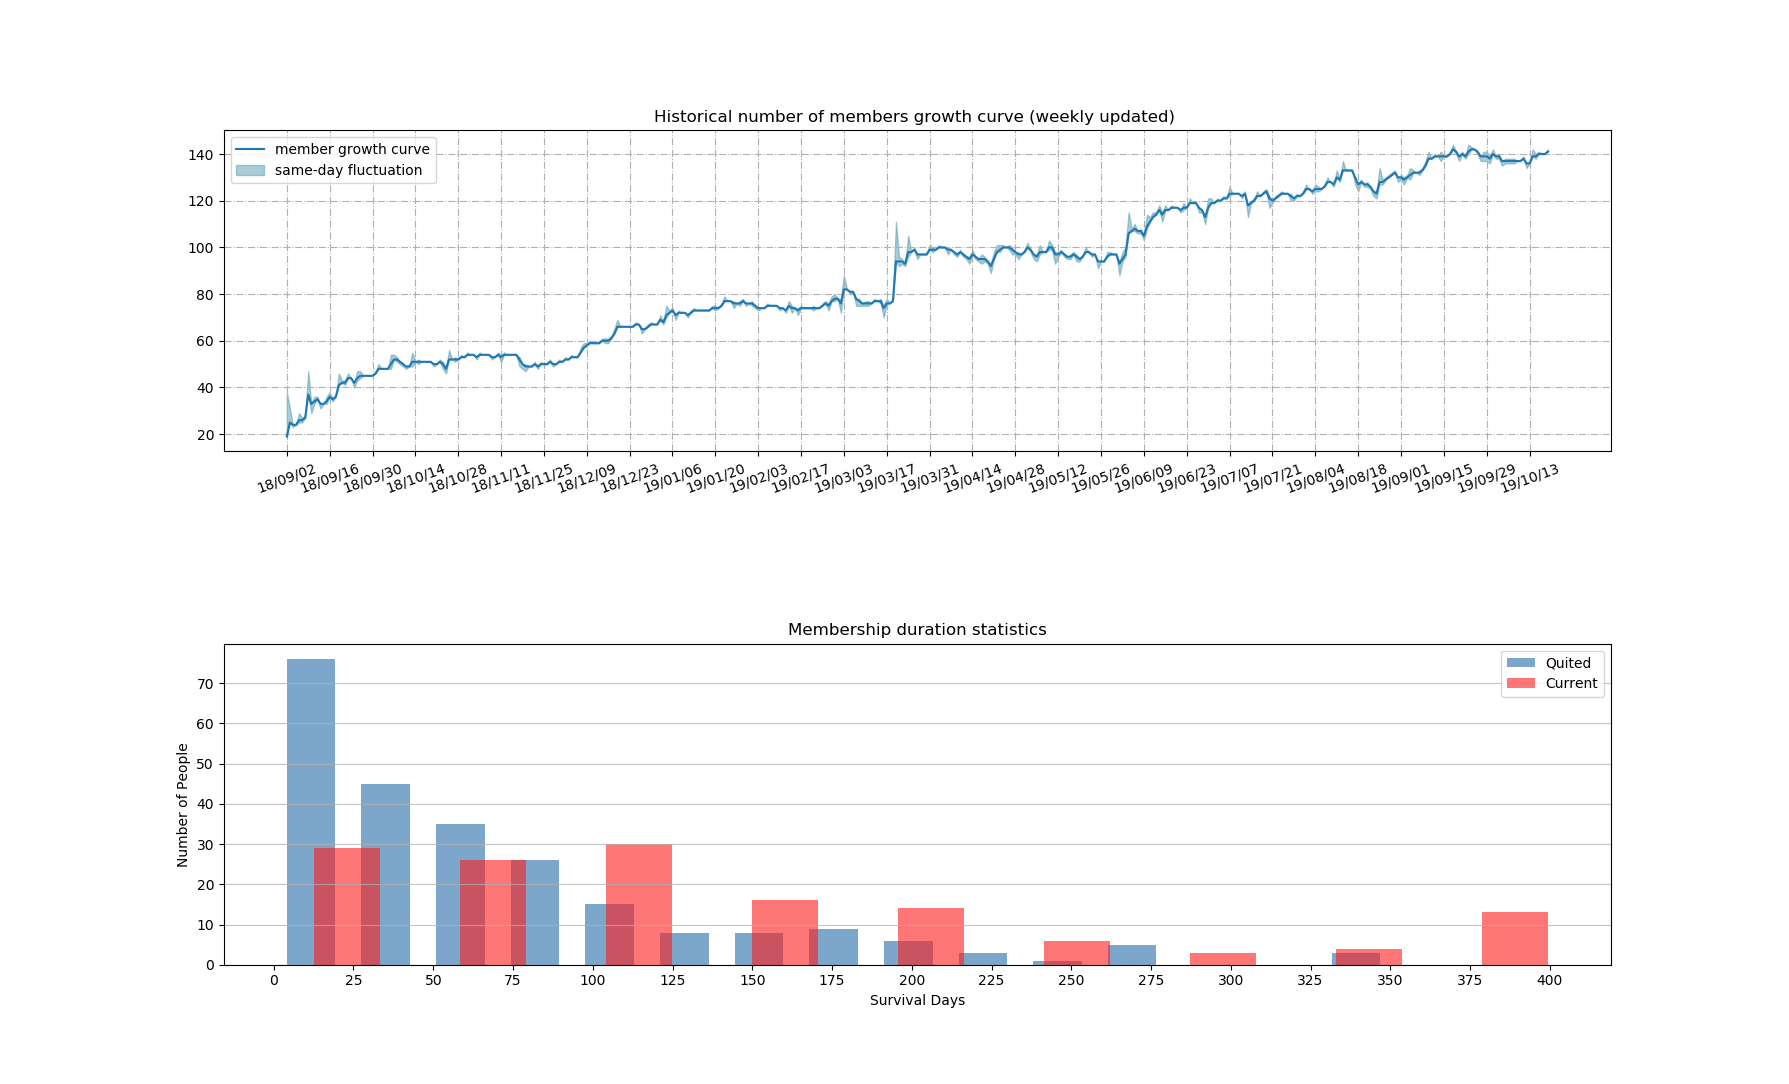
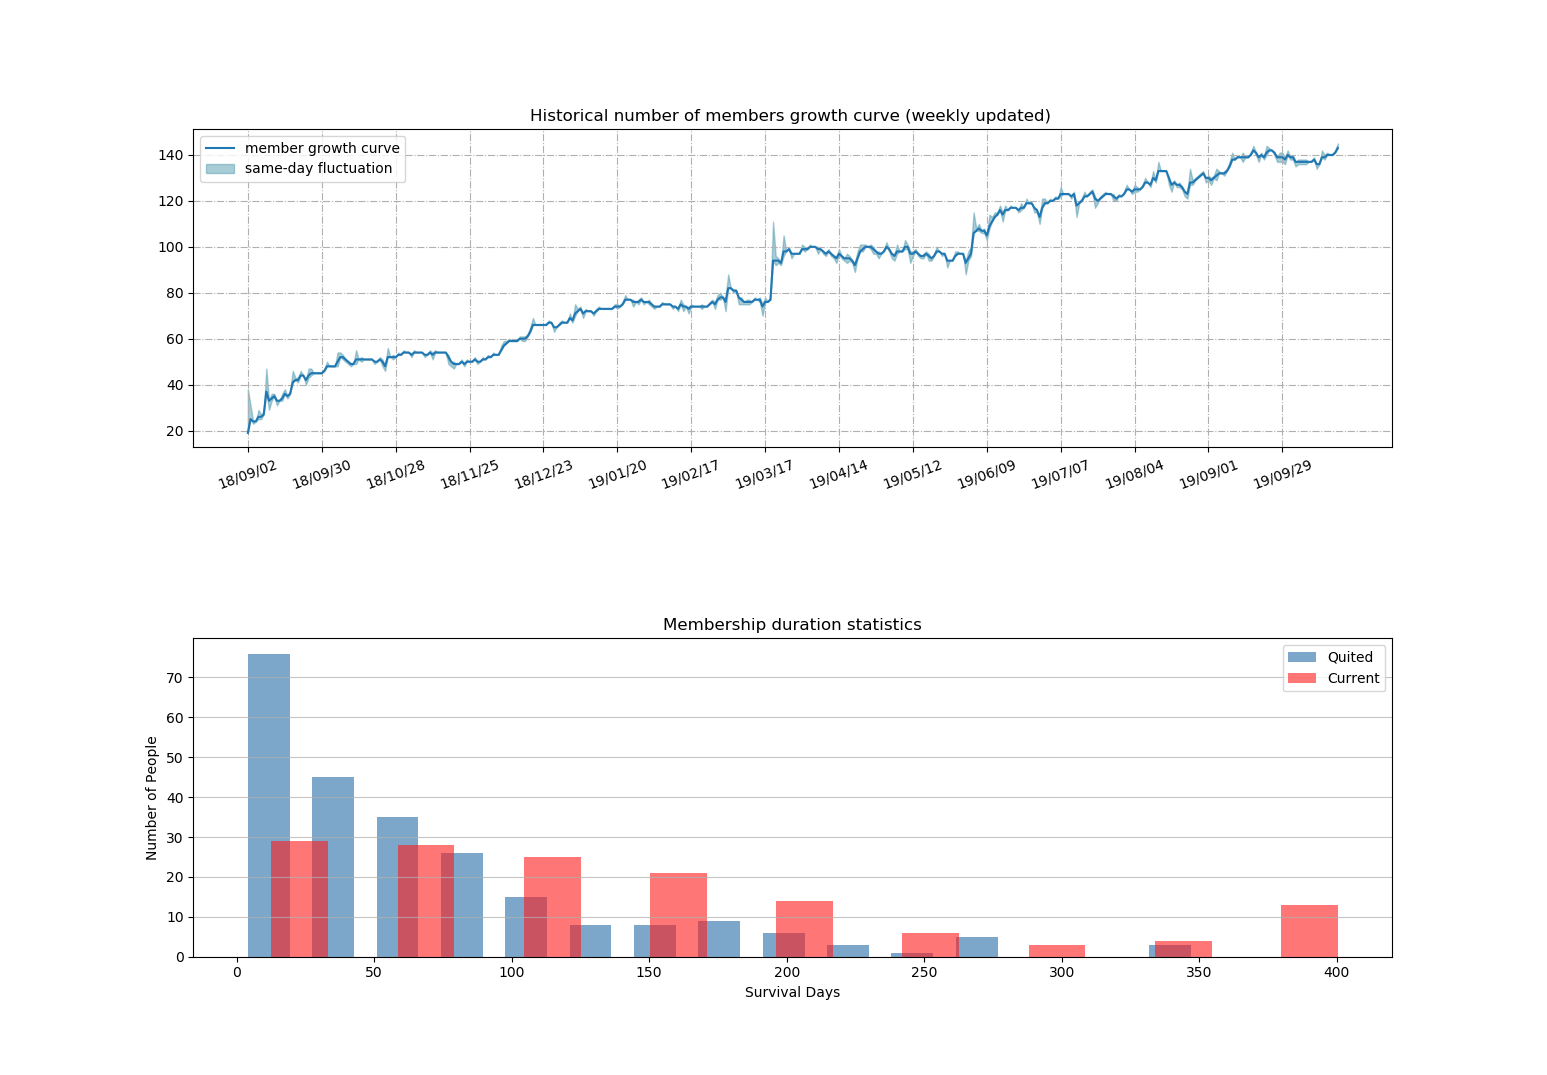
update curve

diff --git a/generateEXCEL/Data/PlotGroupCurve.py b/generateEXCEL/Data/PlotGroupCurve.py
@@ -80,7 +80,7 @@ plt.figure(21,figsize=(10,10))
 plt.subplot(211)
 plt.plot(Nums, label = 'member growth curve')
 plt.fill_between(list(range(0,len(Days))), lower, upper, color = '#539caf', alpha = 0.5, label = 'same-day fluctuation')
-plt.xticks( list(range(0, len(Days),14)), Days[:-1:14], rotation=20 ) 
+plt.xticks( list(range(0, len(Days),28)), Days[:-1:28], rotation=20 ) 
 plt.grid(linestyle='-.')
 plt.title("Historical number of members growth curve (weekly updated) ")
 plt.legend(loc = 'upper left')
@@ -91,7 +91,7 @@ maxDay = (today-start).days
 n, bins, patches = plt.hist(x=PeopleStatOut, bins='auto', label = 'Quited', color='steelblue', alpha=0.7, rwidth=0.65)
 plt.hist(x=PeopleStatIn, bins='auto', label = 'Current', color='#FF1B1B', alpha=0.6, rwidth=0.45)
 plt.grid(axis='y', alpha=0.75)
-plt.xticks( list(range(0,maxDay,25)), list(range(0,maxDay,25)))
+#plt.xticks( list(range(0,maxDay,25)), list(range(0,maxDay,25)))
 plt.xlabel('Survival Days')
 plt.ylabel('Number of People')
 plt.title('Membership duration statistics')
